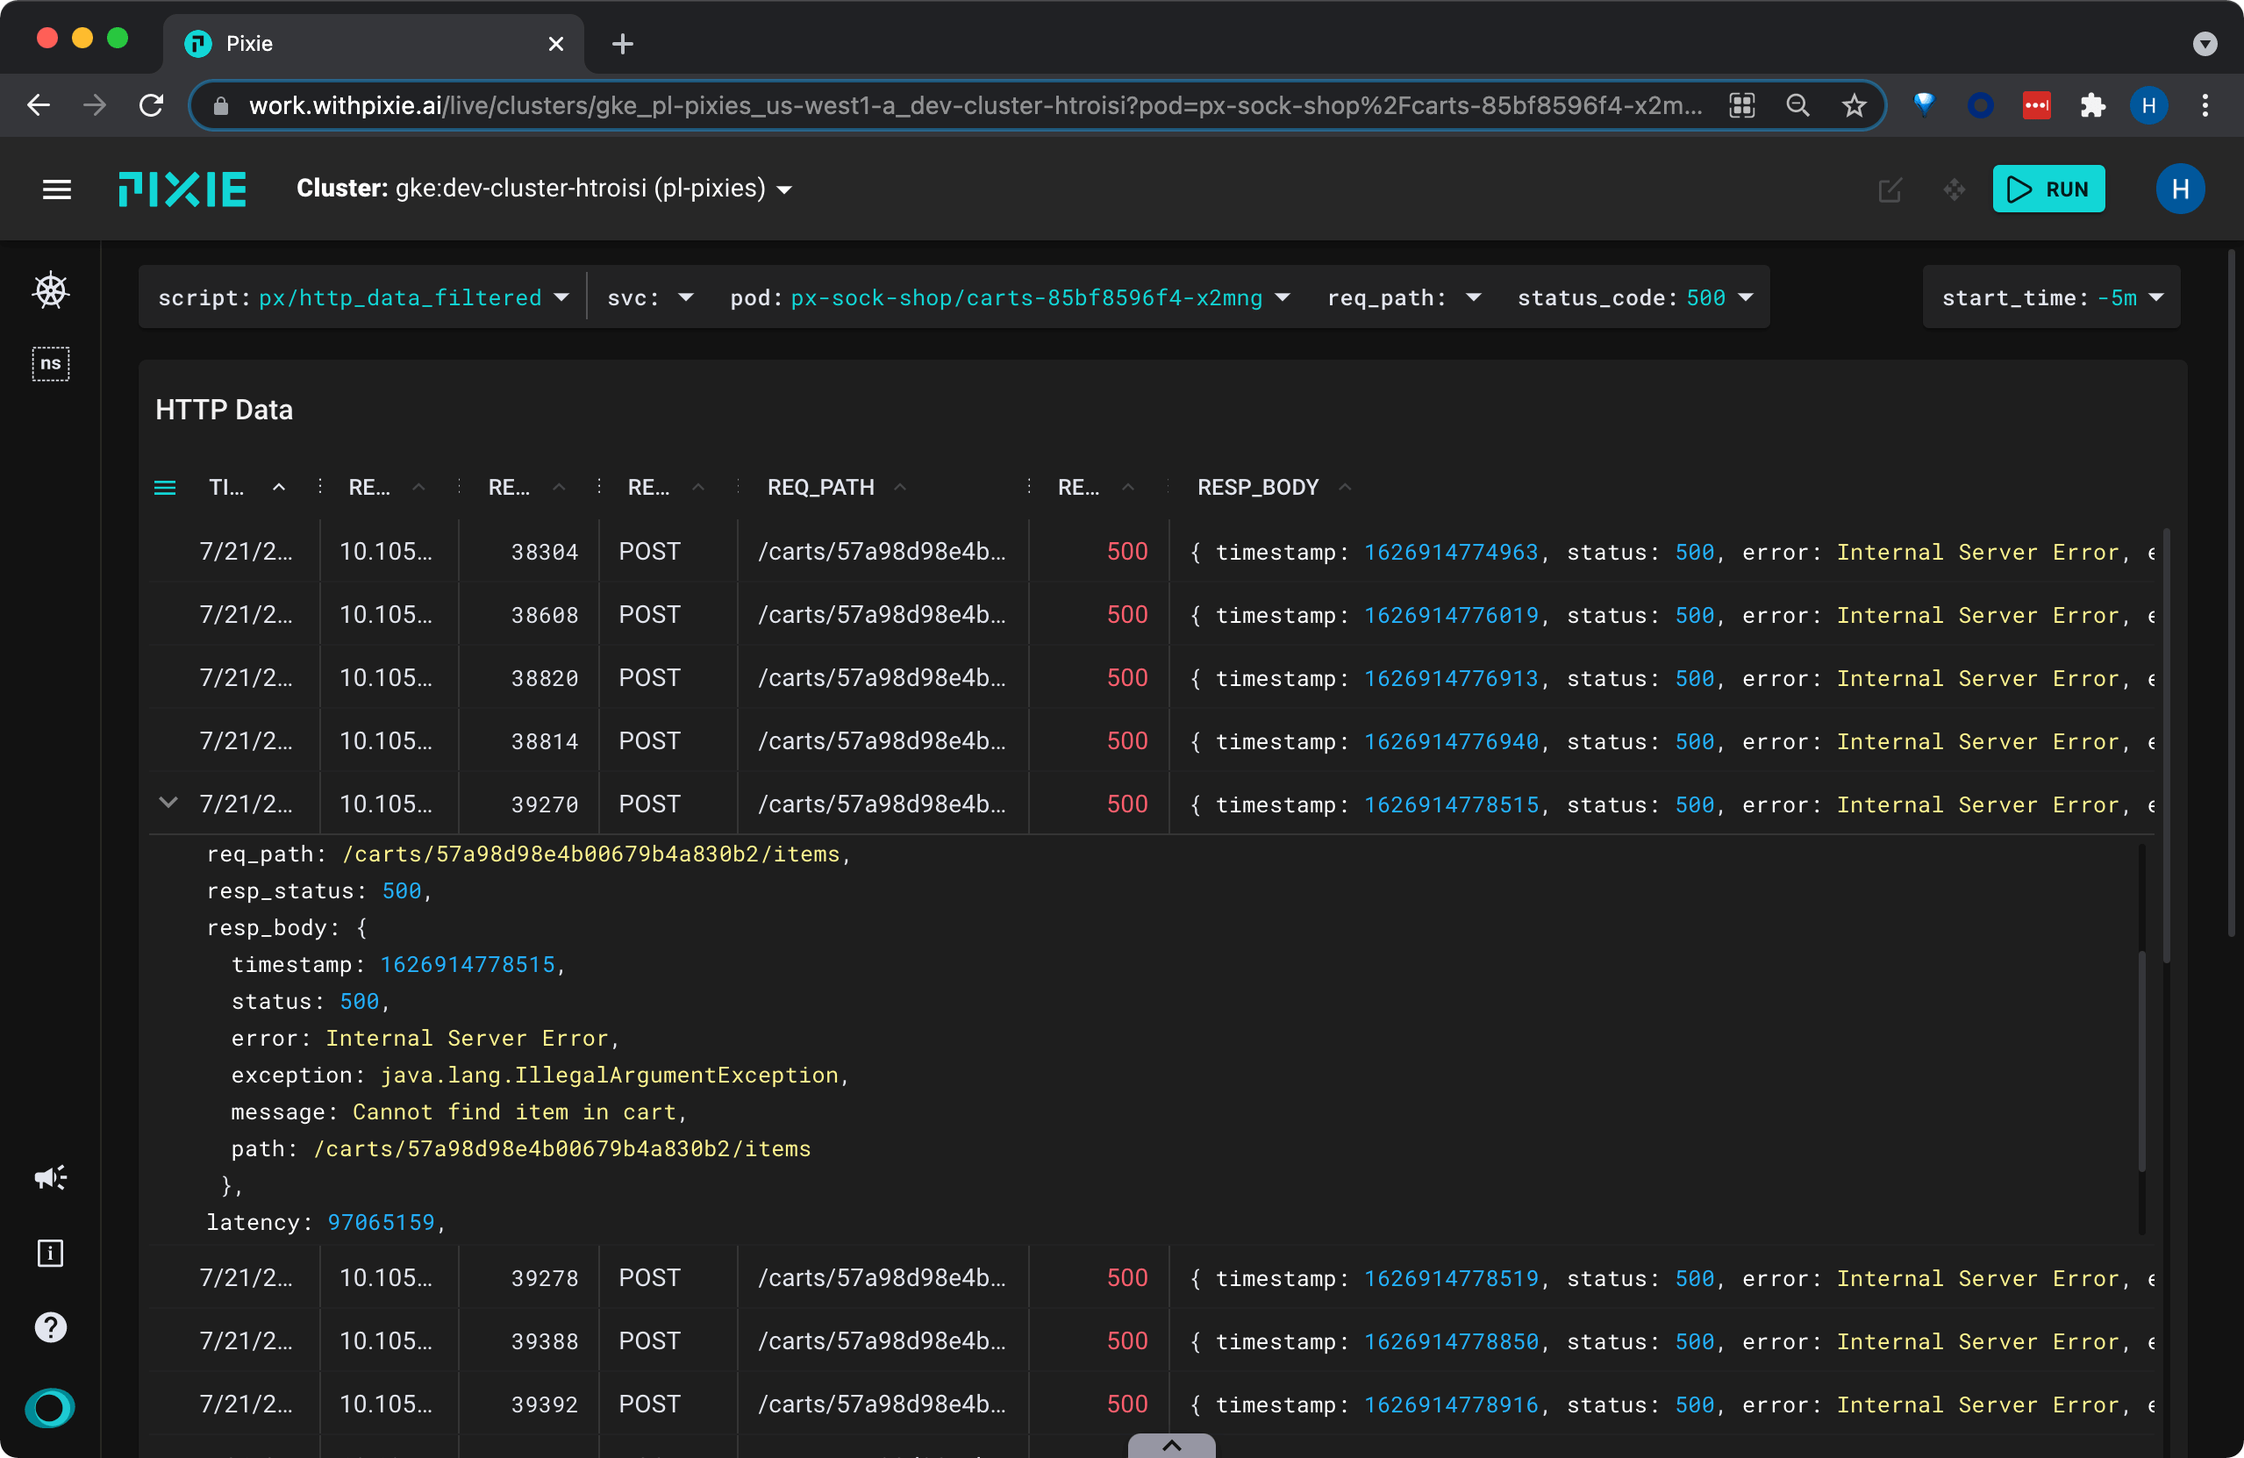
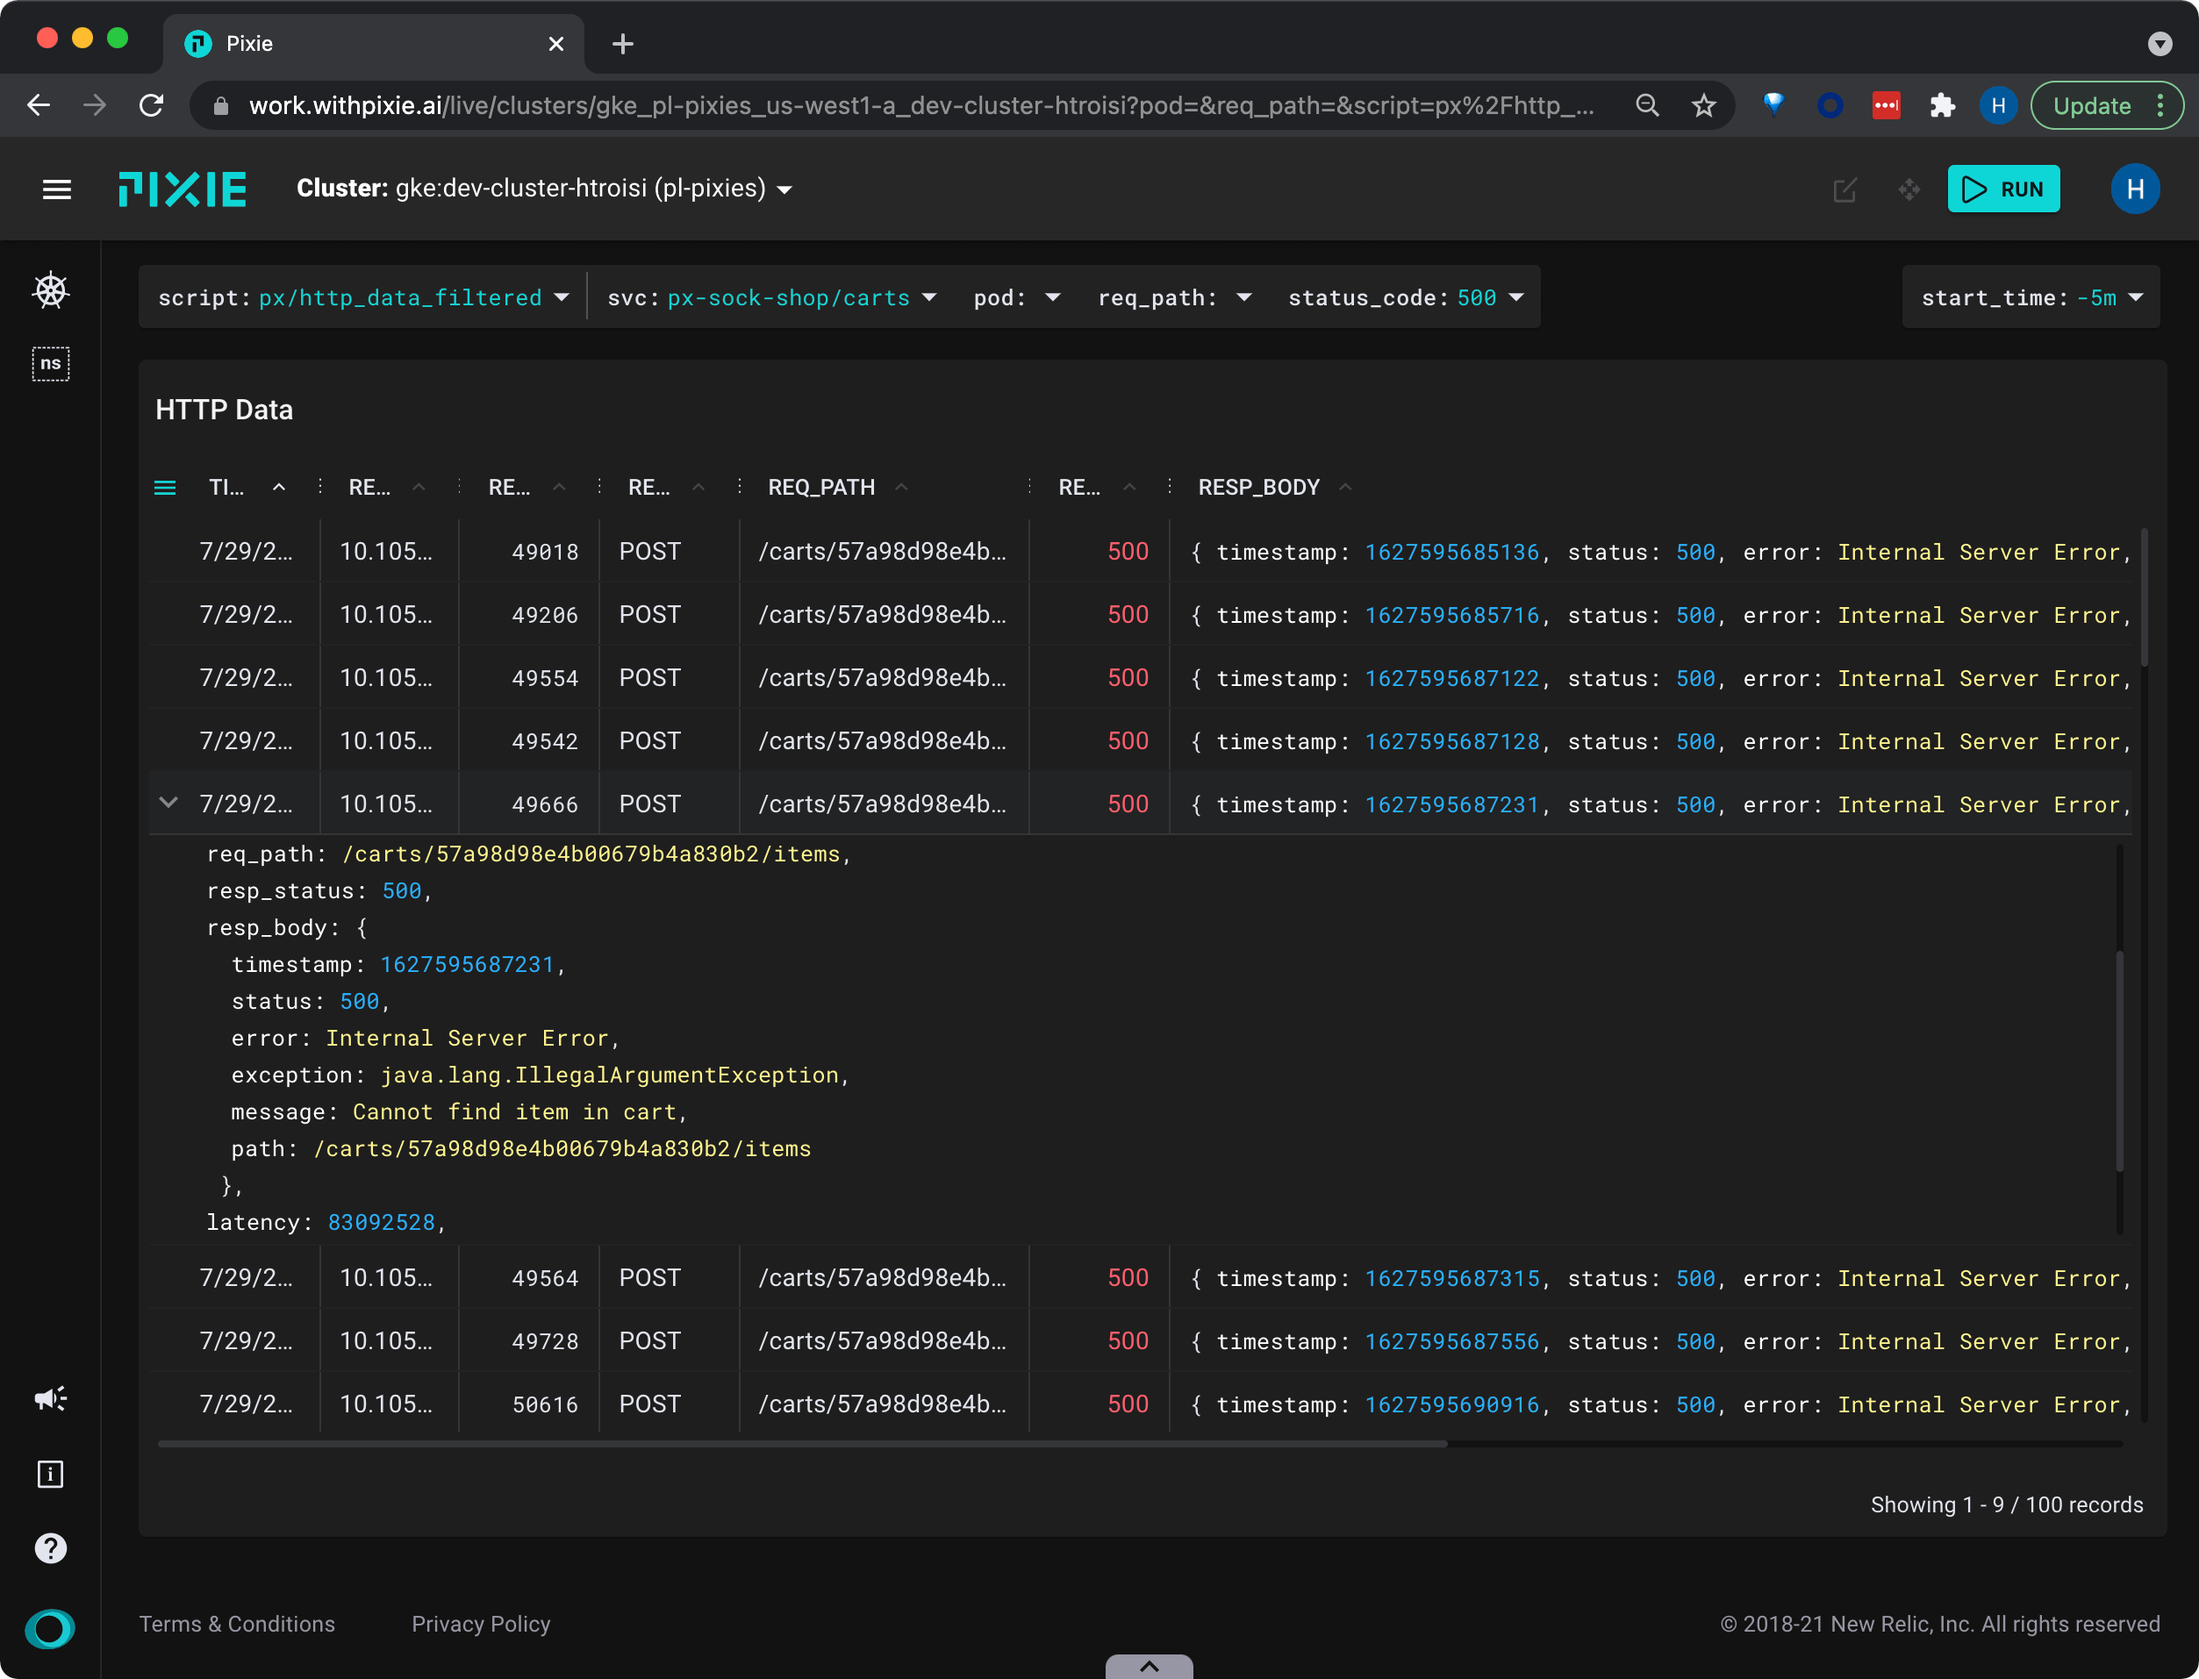
Update Service Health.

diff --git a/content/en/tutorials/pixie-101/request-tracing.md b/content/en/tutorials/pixie-101/request-tracing.md
@@ -5,17 +5,17 @@ metaDescription: "Learn how to use Pixie to trace requests in your cluster."
 order: 5
 ---
 
-The move from monolith to microservice architecture has increased the volume of inter-service traffic. Pixie makes debugging errors between services easy by providing immediate and deep (full-body) visibility into requests, all without the need for manual instrumentation.
+The move from monolith to microservice architecture has greatly increased the volume of inter-service traffic. Pixie makes debugging  this communication between services easy by providing immediate and deep (full-body) visibility into requests flowing through your cluster.
 
 HTTP requests are featured in this tutorial, but Pixie can trace a number of different protocols including DNS, PostgreSQL, and MySQL. See the full list [here](/about-pixie/data-sources/#supported-protocols).
 
 This tutorial will demonstrate how to use Pixie to:
 
-- Inspect full body HTTP requests.
-- See HTTP error rate per pod.
+- Inspect full-body HTTP requests.
 - See HTTP error rate per service.
+- See HTTP error rate per pod.
 
-Check out the [Service Health](/tutorials/pixie-101/service-health) tutorial if you're interested in troubleshooting request latency.
+If you're interested in troubleshooting HTTP latency, check out the [Service Health](/tutorials/pixie-101/service-health) tutorial.
 
 ## Prerequisites
 
@@ -27,27 +27,37 @@ Check out the [Service Health](/tutorials/pixie-101/service-health) tutorial if 
 > - Run `px demo deploy px-sock-shop` to install Weavework's [Sock Shop](https://microservices-demo.github.io/) demo app.
 > - Run `kubectl get pods -n px-sock-shop` to make sure all pods are ready before proceeding. The demo app can take up to 5 minutes to deploy.
 
-## Individual Full Body HTTP Requests
+## Full-Body HTTP Request
 
-Pixie captures all network traffic that passes through your cluster (it supports both server and client-side tracing). For the [supported protocols](http://localhost:8000/about-pixie/data-sources/#supported-protocols), this traffic is parsed and the full request and response bodies are made available.
+A developer has noticed that the demo application's `cart` service is reporting errors.
 
-Let's inspect the contents of the erroring HTTP requests:
+<Alert variant="outlined" severity="info">
+  To see high-level error rates for all of the services in your cluster, check out the <a href="https://docs.px.dev/tutorials/pixie-101/service-health/#service-graph">Service Graph</a> section of the Service Health tutorial.
+</Alert>
+
+Let's use Pixie to find specific HTTP errors:
 
 1. Select `px/http_data_filtered` from the script drop-down menu.
 
-> Note how the `pod` argument preserves the same value that was selected in the `px/pod` script.
-
-> The `px/http_data_filtered` script shows a sample of HTTP requests in the cluster filtered by service, pod, request path & response status code.
+> This script shows the most recent HTTP requests in your cluster filtered by service, pod, request path, and response status code.
 
 2. Select the drop-down arrow next to the `status_code` argument, type `500`, and press Enter to re-run the script.
 
-> The graph should update to only show HTTP requests with a response status code of `500`.
+3. Select the drop-down arrow next to the `svc` argument, type `px-sock-shop/carts`, and press Enter to re-run the script.
+
+> The table will update to only show HTTP requests made to the `carts` service with a response status code of `500`.
 
 ::: div image-xl relative
-<PoiTooltip top={56} left={55}>
+<PoiTooltip top={41} left={55}>
 <strong>Click a row</strong>
 {' '}
 to see the data in JSON form.
+</PoiTooltip>
+
+<PoiTooltip top={24} left={3}>
+<strong>Show / hide table columns</strong>
+{' '}
+with the table column menu.
 </PoiTooltip>
 
 <svg title='' src='use-case-tutorials/http_data_filtered.png'/>
@@ -55,97 +65,67 @@ to see the data in JSON form.
 
 > For requests with longer message bodies, it's often easier to view the data in JSON form.
 
-3. Click on a table row to see the row data in JSON format.
+4. Click on a table row to see the row data in JSON format.
 
-4. Scroll through the JSON data to find the `resp_body` key.
+5. Scroll through the JSON data to find the `resp_body` key.
 
-> We can see that the `front-end` service is issuing requests for an item that doesn't exist.
+> We can see that a HTTP POST request to the `carts` service has returned an error, with the message: `Cannot find item in cart`.
 
-## Service Graph
+## Service Errors
 
-When debugging issues with microservices, it helps to start at a high-level view, like a service map, and then drill down into the problem service(s).
+Once we have identified a specific error coming from the `carts` service, we will want to go up a level to see how often these errors occur at the service level.
 
-For a global view of the services in your cluster, we'll use the px/cluster script:
+6. Hover over the **HTTP Data** table and scroll all the way to the right side.
 
-1. Open the [Live UI](http://work.withpixie.ai/) and select `px/cluster` from the `script` drop-down menu at the top.
+> Pixie's UI makes it easy to quickly navigate between Kubernetes resources. Clicking on any pod, node, service, or namespace name in the UI will open a script showing a high-level overview for that entity.
 
-> This script shows a graph of the HTTP traffic between the services in your cluster, along with latency, error, and throughput rate per service.
-
-::: div image-xl relative
-<PoiTooltip top={10} left={1}>
-<strong>Click the Kubernetes icon</strong>
-{' '}
-for a shortcut to the `px/cluster` script.
-</PoiTooltip>
-
-<PoiTooltip top={71} left={61}>
-<strong>Click table column titles</strong>
-{' '}
-to sort the column data.
-</PoiTooltip>
-
-<PoiTooltip top={72} left={3}>
-<strong>Show / hide table columns</strong>
-{' '}
-with the table column menu.
-</PoiTooltip>
-
-<svg title='' src='use-case-tutorials/cluster_errors.png'/>
-:::
-
-2. Scroll down to the **Services** table.
-
-3. Click on the `ERROR_RATE` column title to sort the services by error rate.
-
-> The `carts` service has errors, so let's take a closer look at that service.
-
-## Individual Service Health
-
-Now that we have identified a service that we are interested in investigating, we will want to drill down into its detailed performance information.
-
-Pixie's UI makes it easy to quickly navigate between Kubernetes resources. Clicking on any pod, node, service, or namespace name in the UI will open a script showing a high-level overview for that entity.
-
-4. From the `SERVICE` column in the **Services** table, click on the `px-sock-shop/carts` service.
+7. From the `SVC` column, click on the `px-sock-shop/carts` service name.
 
 <Alert variant="outlined" severity="info">
-  Pixie displays service names in the UI in the `&lt;namespace&gt;&#47;&lt;service&gt;` format.
+  Pixie displays service names in the UI in the &lt;namespace&gt;&#47;&lt;service&gt; format.
 </Alert>
 
 > This will open the `px/service` script with the `service` argument pre-filled with the name of the service you selected.
 
-> The `px/service` script shows the latency, error, and throughput over time for all HTTP requests for the service.
+> The `px/service` script shows error rate over time for all inbound HTTP requests.
 
 ::: div image-xl relative
 <PoiTooltip top={11} left={79}>
 <strong>Modify the start_time</strong>
 {' '}
-to change the time window for the results (e.g `-30m`, `-1h`).
+to change the time window for the results (e.g -30m, -1h).
 </PoiTooltip>
 
 <svg title='' src='use-case-tutorials/service_errors.png'/>
 :::
 
-> We can see that the `carts` service has had a low error rate over the last 5 min.
+> We can see that the `carts` service has had a low but consistent error rate over the selected time window.
 
-5. Scroll down to the **Inbound Traffic by Requesting Service** table.
+8. Scroll down to the **Inbound Traffic by Requesting Service** table.
 
-> We can see that the HTTP requests with errors are coming from the `front-end` service. None of the requests from the `orders` service have errors.
+> This table shows the services making requests to the `carts` service.
 
-## HTTP Errors per Pod
+> We can see that the requests with errors are only coming from the `front-end` service.
 
-Sometimes a single pod can be the source of all errors.
+## Pod Errors
 
-Let's drill down into the pod view to check HTTP errors alongside pod resource metrics.
+If services are backed by multiple pods, it is worth inspecting the individual pods to see if a single pod is the source of the service's errors.
+
+9. Scroll up to the **Pod List** table.
+
+> The `carts` service is backed by a single pod.
 
 6. Click on the pod name in the **Pod List** table.
 
 > This will open the `px/pod` script with the `pod` argument pre-filled with the name of the pod you selected.
 
-> The `px/pod` script shows the latency, error, and throughput over time for all HTTP requests for the pod alongside high-level resource metrics.
+> The `px/pod` script shows HTTP error rate alongside high-level resource metrics.
 
 ::: div image-xl relative
 <svg title='' src='use-case-tutorials/pod_errors.png'/>
 :::
+
+> We can see that there is no resource pressure on this pod and that the HTTP request throughput has been constant over the selected time window.
 
 ## Related Scripts
 

diff --git a/content/en/tutorials/pixie-101/service-health.md b/content/en/tutorials/pixie-101/service-health.md
@@ -93,12 +93,12 @@ Pixie's UI makes it easy to quickly navigate between Kubernetes resources. Click
 6. From the `SERVICE` column in the **Services** table, click on the `px-sock-shop/front-end` service.
 
 <Alert variant="outlined" severity="info">
-  Pixie displays pod and service names in the UI in the `&lt;namespace&gt;&#47;&lt;pod&gt;` and `&lt;namespace&gt;&#47;&lt;service&gt;` format.
+  Pixie displays pod and service names in the UI in the &lt;namespace&gt;&#47;&lt;pod&gt; and &lt;namespace&gt;&#47;&lt;service&gt; format.
 </Alert>
 
 > This will open the `px/service` script with the `service` argument pre-filled with the name of the service you selected.
 
-> The `px/service` script shows the latency, error, and throughput over time for all HTTP requests for the service. It lists the incoming traffic by requesting service, as well as a sample of the slowest requests for the selected service.
+> The `px/service` script shows the latency, error, and throughput over time for all HTTP requests for the service.
 
 ::: div image-xl relative
 <PoiTooltip top={35} left={68}>
@@ -111,6 +111,12 @@ to highlight those specific results. Click the item a second time to show all re
 <strong>Drag your mouse across the graph</strong>
 {' '}
 to see the values at particular timestamps.
+</PoiTooltip>
+
+<PoiTooltip top={10} left={82}>
+<strong>Modify the start_time</strong>
+{' '}
+to change the time window for the results (e.g -30m, -1h).
 </PoiTooltip>
 
 <svg title='' src='use-case-tutorials/service.png'/>
@@ -131,7 +137,6 @@ Request latency can vary greatly by endpoint, especially if one of the requests 
 Pixie can cluster HTTP requests by logical endpoint, substituting a `*` for the parameters in your requests. For example, the following two requests:
 
 > `/restaurants/0123550/reviews/239487345/author`
-
 > `/restaurants/3485799/reviews/394853457/author`
 
 would be clustered together into the logical endpoint:
